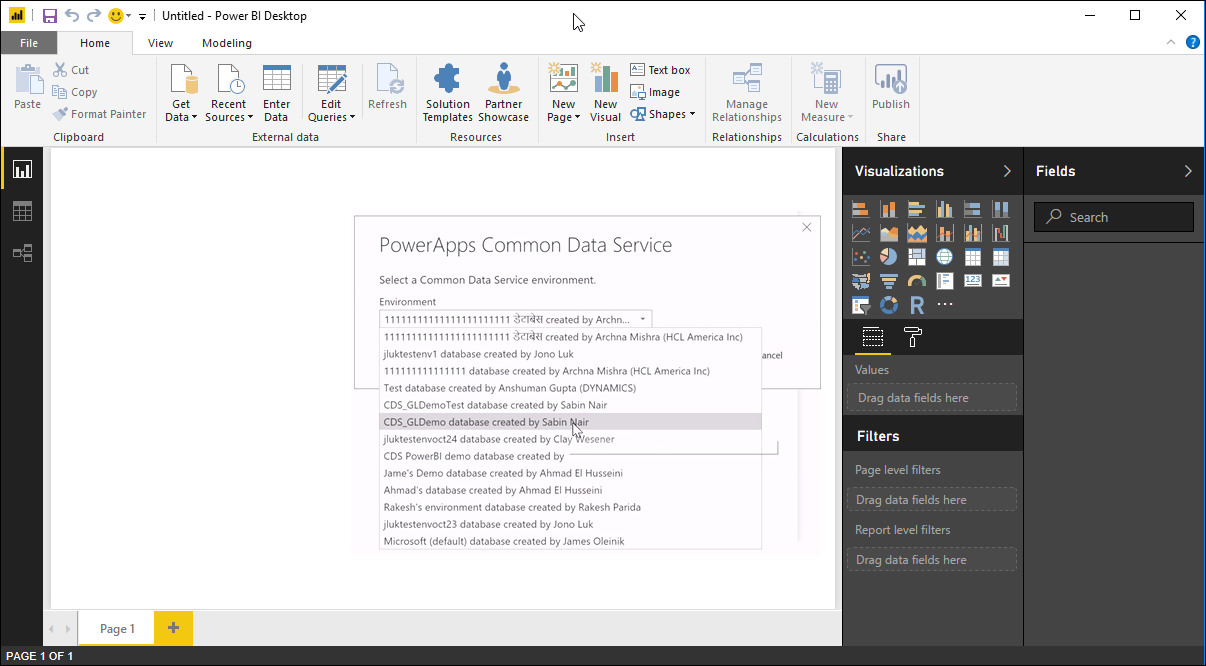
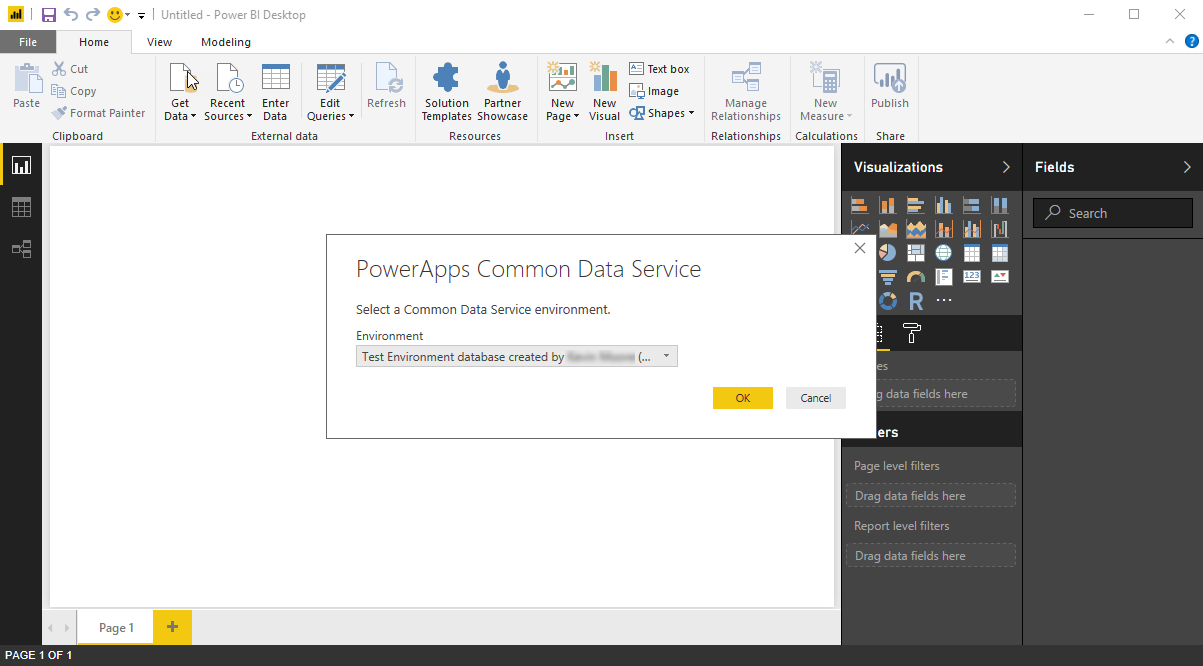
blur names in graphic, fix Power BI and Perspective spellings

diff --git a/articles/guided-learning/learning-common-data-service-incorporate-powerbi.md b/articles/guided-learning/learning-common-data-service-incorporate-powerbi.md
@@ -1,6 +1,6 @@
 <properties
-   pageTitle="Integrating PowerBI with the Common Data Service | Microsoft PowerApps"
-   description="How to use perspectives to create PowerBI reports"
+   pageTitle="Integrating Power BI with the Common Data Service | Microsoft PowerApps"
+   description="How to use perspectives to create Power BI reports"
    services=""
    suite="powerapps"
    documentationCenter="na"
@@ -21,15 +21,15 @@
    ms.author="v-brbene"/>
 
 # Integrating Other Services
-As we saw earlier, one of the major benefits of building with the Common Data Service is that we do all the work in the background to connect the rest of Microsoft’s applications and services with any of the data that you have in the Common Data Service.  The PowerBI Service is a great example of how this works.
+As we saw earlier, one of the major benefits of building with the Common Data Service is that we do all the work in the background to connect the rest of Microsoft’s applications and services with any of the data that you have in the Common Data Service.  The Power BI service is a great example of how this works.
 
-The PowerBI Service talks to the Common Data Service via **Perspectives**. Perspectives are groupings of entities, and their related entities, that make sense for building reports.  The following image shows the set of standard perspectives that we provide out of the box. You can also create your own custom Perspectives, which we’ll do next. 
+The Power BI service talks to the Common Data Service via **perspectives**. Perspectives are groupings of entities, and their related entities, that make sense for building reports.  The following image shows the set of standard perspectives that we provide out of the box. You can also create your own custom perspectives, which we’ll do next. 
 
 ![Perspective list](./media/learning-common-data-service-incorporate-powerbi/perspective-list.png)
 
 
 # Create a New Perspective
-To create a new Perspective, open **PowerApps**, and in the left navigation pane, under **Common Data Service**, click **Perspectives**.  In the upper right-hand corner of the Perspectives page, click **New Perspective**. 
+To create a new perspective, open **PowerApps**, and in the left navigation pane, under **Common Data Service**, click **Perspectives**.  In the upper right-hand corner of the page, click **New Perspective**. 
 
 
 ![Create new perspective list](./media/learning-common-data-service-incorporate-powerbi/perspective-list-create-new.png)
@@ -48,9 +48,9 @@ The **Flooring Estimates** perspective now shows up with the other standard pers
 
 
 
-# Configure PowerBI
+# Configure Power BI
 
-Next, open the **PowerBI Desktop** client. Click **Get Dat**a, then click **More…**, and then click **Online Services**. Select **Common Data Service**, and then click **Connect**.
+Next, open the **Power BI Desktop** client. Click **Get Dat**a, then click **More…**, and then click **Online Services**. Select **Common Data Service**, and then click **Connect**.
   
 ![Connect to Common Data Service](./media/learning-common-data-service-incorporate-powerbi/pbi-getdata.png)
 
@@ -63,7 +63,7 @@ On the **Navigator** page, expand your test environment, select the **SalesOrder
 
 ![Select the perspective](./media/learning-common-data-service-incorporate-powerbi/pbi-navigator.png)
 
-In the PowerBI Desktop client, in the **Fields** column on the right-hand side, expand **Opportunity**. 
+In the Power BI Desktop client, in the **Fields** column on the right-hand side, expand **Opportunity**. 
 
 ![Data fields](./media/learning-common-data-service-incorporate-powerbi/data-fields.png)
 
@@ -71,4 +71,4 @@ Drag the **EstimatedClosing**, **IndustryCode**, and **Name** fields to the desk
 
 ![Build a report](./media/learning-common-data-service-incorporate-powerbi/build-report.png)
 
-This feature is currently in preview. Please let us know if you have any feedback, and check back often because we add content over time. PowerBI is the first of many experiences that we expect to share over the coming months to demonstrate how the Common Data Service can help you build your apps quickly and effectively. 
+This feature is currently in preview. Please let us know if you have any feedback, and check back often because we add content over time. Power BI is the first of many experiences that we expect to share over the coming months to demonstrate how the Common Data Service can help you build your apps quickly and effectively. 
